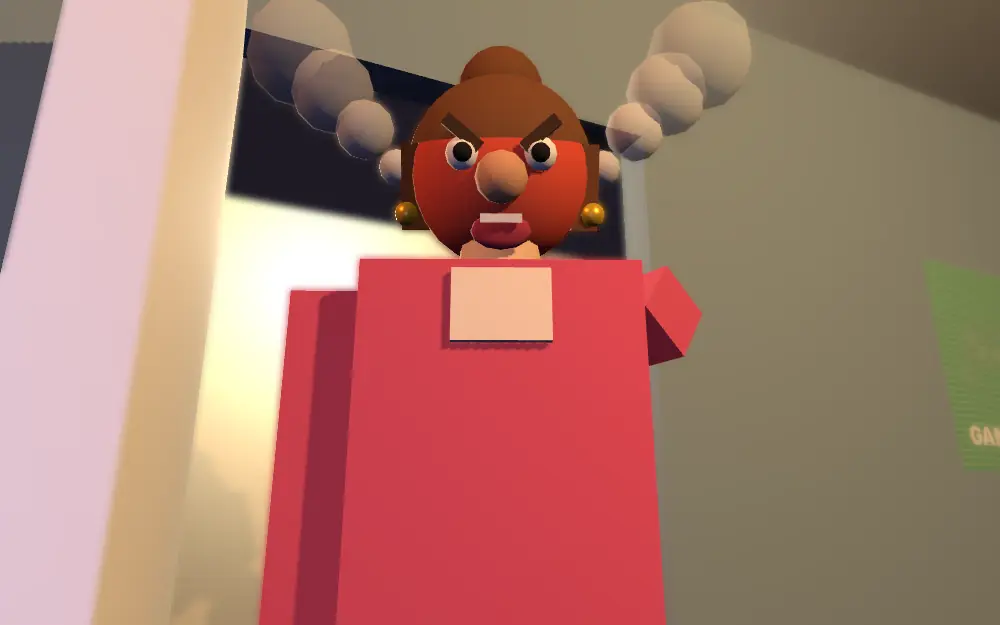
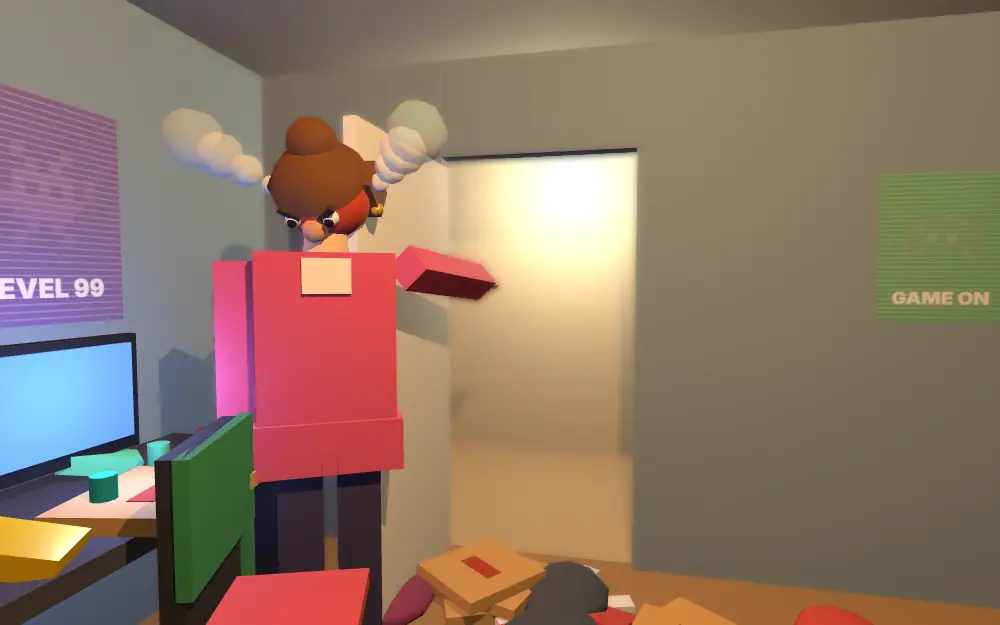
Introt: talfart 1,15, 300 ms luft, armen upp på 'soptipp', längre repliker i ruta 10–12 (inkorg 12b)
- talFart() ger 1,15 medan introt pågår (spelet står kvar på 1,3)
- 300 ms före och efter varje replik
- ruta 7: v4kort7a (armarna ute) först, v4kort7 (armen mot dörren) tonar in på ordet soptipp; mamma flyttad så dörrbladet inte skär henne
- ruta 10–12: de längre raderna tillbaka
- test-a078c: 54–61 s (varm), armen visas

Claude-Session: https://claude.ai/code/session_014156cp9JxbGsW1A8ZsF5gD

diff --git a/spel/printa-hem/spel.js b/spel/printa-hem/spel.js
@@ -913,9 +913,10 @@ function satEffekter(pa) { S.effekter = pa; for (const b of effektBussar) b.gain
 function volym(k) { const v = S.vol?.[k]; return v == null ? 1 : Math.max(0, Math.min(1, v)); }
 const rostVol = (vem) => volym(vem === 'berattare' ? 'berattare' : 'rost');
 /* A-078 tillägg 15:40: talhastighet för all uppläsning – standard 1,3. ?talfart=1.0 i adressen för att prova. */
-const TAL_FARTER = [['lugn', 'Lugn', 1.0], ['normal', 'Normal', 1.15], ['snabb', 'Snabb', 1.3]], TAL_FART_STANDARD = 1.3, TAL_FART_NYCKEL = 'printa-hem:talfart';
+const TAL_FARTER = [['lugn', 'Lugn', 1.0], ['normal', 'Normal', 1.15], ['snabb', 'Snabb', 1.3]], TAL_FART_STANDARD = 1.3, TAL_FART_NYCKEL = 'printa-hem:talfart', TAL_FART_INTRO = 1.15, INTRO_LUFT = 300;
 function talFart() {
   try { const q = +new URLSearchParams(location.search).get('talfart'); if (q > 0) return Math.min(2, q); } catch {}
+  try { if (introPagar) return TAL_FART_INTRO; } catch {}   /* inkorg 12b: introt läses lugnare än spelet */
   try { const v = +localStorage.getItem(TAL_FART_NYCKEL); if (v > 0) return Math.min(2, v); } catch {}
   return TAL_FART_STANDARD;
 }
@@ -12491,7 +12492,7 @@ function visaIntroV2(klar) {
    intro (Enter hoppar över) → startmenyn → dagboken sida 1 (Börja) → spelet. Varje ruta har en fast längd,
    0,5 s tystnad innan texten, 0,3 s mellan raderna, och ingen ruta byts medan någon pratar.
    Mammas repliker är bubblor BREDVID huvudet (pilen mot henne) – huvudets plats kommer ur renderingen (BUB3). */
-const BUB3 = { v4dag2: [60.6, 36.5], v4dag3: [50, 33], v4dag4: [50, 40.9], v4dag5: [50, 43.5], v4dag6b: [50, 24.8], v4kort7: [50, 28.9], };   // huvudet i % av bilden (verktyg/ai3.mjs PTS)
+const BUB3 = { v4dag2: [60.6, 36.5], v4dag3: [50, 33], v4dag4: [50, 40.9], v4dag5: [50, 43.5], v4dag6b: [50, 24.8], v4kort7: [32.5, 30.8], v4kort7a: [32.5, 30.8], };   // huvudet i % av bilden (verktyg/ai3.mjs PTS)
 const IB3 = (namn, extra = {}) => ({ id: extra.id || namn, src: `intro/${namn}.webp`, ...extra });
 const KAL3 = (dag, fore) => ({ id: 'kal', kal: dag, fore, cls: 'vanster' });
 const IDE3 = {   /* ruta 12: idéskissen i vita konturer, i ordningen skräp → kvarn → filament → skrivare → allt man kan printa */
@@ -12517,12 +12518,12 @@ const INTRO3 = [
   { tid: 1400, ljud: 'riv', lager: [IB3('v4dag4', { id: 'dag' }), KAL3('ONSDAG', 'TISDAG')], tal: [['mamma', 'STÄDA!!', { b: 'v4dag4', cls: 'rop2' }]] },   // lågt från golvet, hon pekar på högarna (arg2)
   { tid: 1400, ljud: 'riv', lager: [IB3('v4dag5', { id: 'dag' }), KAL3('TORSDAG', 'ONSDAG')], tal: [['mamma', 'STÄDA!!!', { b: 'v4dag5', cls: 'rop3' }]] },   // från sidan, armen rakt upp (arg2)
   { tid: 2600, rorelse: true, ljud: 'dorr', lager: [IB3('v4dag6a', { id: 'dag', cls: 'glidin' }), IB3('v4dag6b', { r: 0, cls: 'glidsen' }), KAL3('FREDAG', 'TORSDAG')], tal: [['mamma', 'Det ser ut som en SOPTIPP här inne!', { b: 'v4dag6b', fore: 600 }]] },   // dörren smäller upp, kameran glider in mot henne (rasande)
-  { tid: 3000, tyst: 0, lager: [IB3('v4kort7'), { id: 'vinjett', vinjett: true }], tal: [['mamma', 'Du kan lika gärna BO på en soptipp!', { b: 'v4kort7', cls: 'rop1', vanster: true }]] },   // rakt in i ansiktet, fingret mot kameran (rasande+rök)
+  { tid: 3000, tyst: 0, lager: [IB3('v4kort7a'), IB3('v4kort7', { r: 'pek' }), { id: 'vinjett', vinjett: true }], tal: [['mamma', 'Du kan lika gärna BO på en soptipp!', { b: 'v4kort7', cls: 'rop1', vanster: true, visa: ['pek', 0.62] }]] },   /* inkorg 12b: armen åker upp på ordet soptipp */   // rakt in i ansiktet, fingret mot kameran (rasande+rök)
   { tid: 2200, rorelse: true, ljud: 'gitarr', lager: [IB3('v4kort8a'), IB3('v4kort8', { cls: 'sen1kort' })], tal: [['du', 'Okej.'], ['du', 'Då gör jag väl det.']] },   // du reser dig vid datorn, mamma pekar ut genom dörren
   { tid: 2300, rorelse: true, lager: [IB3('v4kort9a', { cls: 'folj' }), IB3('v4kort9b', { cls: 'folj sen1' }), IB3('v4kort9', { cls: 'folj sen2' })], tal: [] },   /* A-078 tillägg 11:50: du går förbi henne i bild – framför henne, förbi, och hon vänder sig */   // A-078 ruta 9: ut förbi mamma, kameran följer med dig ut (mamma förvånad)
-  { tid: 2600, rorelse: true, ljud: 'band', lager: [IB3('v5pack10a'), IB3('v5pack10b', { cls: 'sen1kort' }), IB3('v5pack10c', { cls: 'sen2kort' })], tal: [['du', 'Ryggan på.'], ['du', 'Brorsans gamla 3D-skrivare på pakethållaren.']] },   /* A-078 facit ruta 10: garaget, från sidan, tre steg */
-  { tid: 3000, rorelse: true, musik: true, lager: [{ id: 'vagloop', loop: 'intro/vag.webp' }, { id: 'cyklist', sprite: 'intro/cyklist-tramp.webp', n: 4 }], tal: [['berattare', 'Förbi skolan, förbi affären, förbi där husen tar slut.']] },
-  { tid: 3500, ljud: 'masar', lager: [{ id: 'spelgard', spel: 'gard' }], tal: [['berattare', 'Ett gammalt skjul vid soptippen.'], ['berattare', 'Och en gård full av skräp.']] },
+  { tid: 2600, rorelse: true, ljud: 'band', lager: [IB3('v5pack10a'), IB3('v5pack10b', { cls: 'sen1kort' }), IB3('v5pack10c', { cls: 'sen2kort' })], tal: [['du', 'Jag packar ryggan med sånt som kan vara bra att ha.'], ['du', 'Och surrar fast brorsans gamla 3D-skrivare på cykeln.']] },   /* inkorg 12b: de längre raderna tillbaka */   /* A-078 facit ruta 10: garaget, från sidan, tre steg */
+  { tid: 3000, rorelse: true, musik: true, lager: [{ id: 'vagloop', loop: 'intro/vag.webp' }, { id: 'cyklist', sprite: 'intro/cyklist-tramp.webp', n: 4 }], tal: [['berattare', 'Förbi skolan.'], ['berattare', 'Förbi affären.'], ['berattare', 'Förbi där husen tar slut.']] },
+  { tid: 3500, ljud: 'masar', lager: [{ id: 'spelgard', spel: 'gard' }], tal: [['berattare', 'Vid soptippen står ett gammalt skjul.'], ['berattare', 'Och en gård full av skräp.']] },
   { tid: 3000, rorelse: true, lager: [{ id: 'tavla', tavla: true }], tal: [['berattare', 'Skräp är plast.', { rita: [['skrap', 0]] }], ['berattare', 'En kvarn gör det till filament.', { rita: [['pil1', 0], ['kvarn', 200], ['fraga', 700], ['pil2', 1200], ['filament', 1300]] }], ['berattare', 'Och med filament kan man printa… allt.', { rita: [['pil3', 0], ['skrivare', 200]] }], ['du', 'Jag behöver bara komma på hur.']] },
   { tid: 6000, lager: [{ id: 'n1', spel: 'dorrhal' }, { id: 'natt', natt: true, r: 1 }, { id: 'n2', spel: 'dorrhalRatta', r: 2 }, { id: 'm2', spel: 'mammaRitning', r: 2, cls: 'poff' }, { id: 'n3', spel: 'start', r: 3, cls: 'zoomut' }, { id: 'k3', krita: 'skjul3', r: 3 }],
     tal: [['berattare', 'Inget tak.'], ['berattare', 'Ingen dörr.'], ['berattare', 'Ingen mamma som tjatar.', { pip: true }], ['berattare', 'Tänk om det här kunde bli ett riktigt hem?', { fore: 600 }]], slut: true, rorelse: true },
@@ -12605,9 +12606,9 @@ function visaIntro3(klar, o = {}) {
   const logg = (h, x = '') => { (window.__introLogg ||= []).push({ kort: i + 1, h, x, t: Math.round(performance.now()) }); };
   const timers = new Set(), vanta = (ms, k) => new Promise((ok, nej) => { const t = setTimeout(() => { timers.delete(t); k === kor ? ok() : nej('avbrutet'); }, ms); timers.add(t); });
   /* A-078 tillägg 12:25: varje replik läses (lasIgen), slutet kommer från rösten, reservtimern bara om rösten aldrig säger klar. Tabell per replik i window.__introRepliker. */
-  const sag = (vem, text, k) => new Promise((ok, nej) => { let klar = false; const rad = { ruta: i + 1, vem, text, kalla: klippKalla(vem, text) ? 'ElevenLabs' : rostLage() === 'av' ? 'tyst' : rostLage() === 'prat' ? 'pratljud' : 'talsyntes', start: null, slut: null, t0: Math.round(performance.now()) }; (window.__introRepliker ||= []).push(rad);
+  const sag = (vem, text, k, vidStart) => new Promise((ok, nej) => { let klar = false; const rad = { ruta: i + 1, vem, text, kalla: klippKalla(vem, text) ? 'ElevenLabs' : rostLage() === 'av' ? 'tyst' : rostLage() === 'prat' ? 'pratljud' : 'talsyntes', start: null, slut: null, t0: Math.round(performance.now()) }; (window.__introRepliker ||= []).push(rad);
     const slut = (varfor) => { if (klar) return; klar = true; rad.slut = Math.round(performance.now()); rad.reserv = varfor === 'reserv'; k === kor ? ok() : nej('avbrutet'); };
-    prata(vem, text, 'STORY', { direkt: true, lasIgen: true, start: () => { rad.start = Math.round(performance.now()); logg('röstStart', text); }, slut: () => { logg('röstSlut', text); slut('röst'); } }); const t = setTimeout(() => slut('reserv'), 3000 + text.length * 150); timers.add(t); });
+    prata(vem, text, 'STORY', { direkt: true, lasIgen: true, start: () => { rad.start = Math.round(performance.now()); logg('röstStart', text); vidStart?.(); }, slut: () => { logg('röstSlut', text); slut('röst'); } }); const t = setTimeout(() => slut('reserv'), 3000 + text.length * 150); timers.add(t); });
   const avbryt = () => { kor++; timers.forEach(clearTimeout); timers.clear(); try { tystna(); } catch {} pratKo.length = 0; };
   const bubbla = (p, text, o) => {
     const h = BUB3[o.b] || [50, 30], hoger = h[0] < 58, b = document.createElement('div');
@@ -12639,7 +12640,7 @@ function visaIntro3(klar, o = {}) {
     textEl.innerHTML = ''; textEl.classList.add('tom');
     if (p.ljud) introLjud3(p.ljud); if (p.musik) introMusik.start();
     const t0 = performance.now();
-    await vanta(150, k);   /* A-078 tillägg 12:25: tätare – högst ca 75 s */
+    await vanta(INTRO_LUFT, k);   /* inkorg 12b: 300 ms luft före repliken */
     if (introRitarVarld) { await new Promise((ok) => requestAnimationFrame(() => requestAnimationFrame(ok))); for (const l of p.lager) if (l.spel) spelBild(l.spel); introRitarVarld = 'klar'; }   /* alla bilder ur världen görs medan världen ritas – sedan vilar den */
     let sistaR = null;
     for (let j = 0; j < p.tal.length; j++) {
@@ -12659,7 +12660,9 @@ function visaIntro3(klar, o = {}) {
         textEl.classList.toggle('tom', !textEl.textContent.trim());
       }
       logg('rad', j);
-      await sag(vem, text, k); await vanta(p.tal[j + 1]?.[0] === vem ? 100 : 150, k);   /* A-078 tillägg 15:35: 150 ms luft, 100 ms mellan repliker som hör ihop */
+      let visaFn = null;
+      if (o.visa) { const [vid, andel] = o.visa, l = p.lager.find((x) => x.r === vid); let gjort = false; visaFn = () => { if (gjort || !l) return; gjort = true; const ms = Math.max(200, rens(text).length * 62 / talFart() * andel); const t = setTimeout(() => { timers.delete(t); visaLager(l); logg('visa', vid); }, ms); timers.add(t); }; const t2 = setTimeout(() => visaFn(), 900); timers.add(t2); }   /* inkorg 12b: ett lager på ett visst ord – räknat från röstens start (reserv om rösten aldrig startar) */
+      await sag(vem, text, k, () => visaFn?.()); await vanta(INTRO_LUFT, k);   /* inkorg 12b: 300 ms luft efter varje replik */
     }
     await vanta(p.rorelse ? Math.max(150, p.tid - (performance.now() - t0)) : 0, k);   /* rutans tid gäller bara när en rörelse behöver den – annars byts bilden 0,3 s efter rösten */
   };
@@ -14956,7 +14959,8 @@ const VYER4 = {
   v4dag5: {"kam":[[0.95,1.35,0.25],[2.15,1.65,-0.45]],"fov":64,"stok":0.85,"du":{"x":1.0,"z":-0.95,"rot":3.491592653589793,"sitt":true,"lookAt":[2.3,1.5,-0.4],"humor":"likgiltig"},"mamma":{"x":2.15,"z":-0.45,"motKamera":[1.0,0,-0.95],"humor":"arg2","armarUpp":true,"lookAt":[1.0,1.15,-0.95]},"fokus":1.4},   // 5-torsdag
   v4dag6a: {"kam":[[0.0,1.55,1.3],[2.2,1.4,-0.4]],"fov":56,"stok":1,"du":{"x":1.0,"z":-0.95,"rot":3.491592653589793,"sitt":true,"lookAt":[2.3,1.5,-0.4],"humor":"likgiltig"},"mamma":{"x":2.2,"z":-0.4,"motKamera":[1.0,0,-0.95],"humor":"rasande","pekaMot":[1.0,1.15,-0.95],"lookAt":[1.0,1.15,-0.95]},"fokus":2.6},   // 6a-fredag
   v4dag6b: {"kam":[[1.15,1.15,-0.9],[2.2,1.48,-0.4]],"fov":56,"stok":1,"mamma":{"x":2.2,"z":-0.4,"motKamera":[1.0,0,-0.95],"humor":"rasande","pekaMot":[1.5,0.0,-0.2],"lookAt":[1.0,1.15,-0.95]},"fokus":1.3},   // 6b-fredag-nara · A-078 13:40: hon pekar på högarna, aldrig in i kameran · A-078 tillägg 11:50: din vy från datorn, hon pekar på dig
-  v4kort7: {"kam":[[1.2,1.15,-0.88],[2.25,1.5,-0.4]],"fov":50,"stok":1,"lampa":9,"mamma":{"x":2.25,"z":-0.4,"motKamera":[1.0,0,-0.95],"humor":"rasande+rok","pekaMot":[3.9,1.4,-0.6],"lookAt":[1.0,1.15,-0.95]},"fokus":1.1,"nara":true},   // 7-argast · A-078 tillägg 13:40: din vy från datorn, hon pekar UT genom dörren med höger arm
+  v4kort7a: {"kam":[[-0.4,1.45,0.05],[2.3,1.3,-0.55]],"fov":58,"stok":1,"lampa":9,"mamma":{"x":1.45,"z":-1.0,"motKamera":[-0.4,0,0.05],"humor":"rasande+rok","handerISidan":true,"lookAt":[1.0,1.15,-0.95]},"fokus":1.7},   /* inkorg 12b: samma bild innan ordet – armen nere */
+  v4kort7: {"kam":[[-0.4,1.45,0.05],[2.3,1.3,-0.55]],"fov":58,"stok":1,"lampa":9,"mamma":{"x":1.45,"z":-1.0,"motKamera":[-0.4,0,0.05],"humor":"rasande+rok","pekaMot":[2.7,1.4,-0.5],"lookAt":[1.0,1.15,-0.95]},"fokus":1.7},   /* inkorg 12b: kameran längre bak – mamma, armen och dörröppningen syns. Hon pekar UT, aldrig in i kameran */   // 7-argast · A-078 tillägg 13:40: din vy från datorn, hon pekar UT genom dörren med höger arm
   v4kort8a: {"kam":[[-0.9,1.25,-0.55],[1.6,1.05,-0.6]],"fov":58,"stok":1,"du":{"x":1.0,"z":-0.95,"rot":3.491592653589793,"sitt":true,"lookAt":[2.05,1.55,0.45],"humor":"likgiltig"},"mamma":{"x":2.05,"z":0.45,"motKamera":[0.4,0,-0.9],"humor":"rasande","pekaMot":[3.9,1.4,-0.45],"lookAt":[1.0,1.15,-0.95]},"fokus":2.6},   // A-078 tillägg 13:40: du sitter kvar, hon pekar ut genom dörren
   v4kort8: {"kam":[[-0.9,1.25,-0.55],[1.6,1.05,-0.6]],"fov":58,"stok":1,"du":{"x":1.0,"z":-0.95,"motKamera":[2.05,0,0.45],"lookAt":[2.05,1.55,0.45],"humor":"likgiltig"},"mamma":{"x":2.05,"z":0.45,"motKamera":[0.4,0,-0.9],"humor":"rasande","pekaMot":[3.9,1.4,-0.45],"lookAt":[1.0,1.45,-0.95]},"fokus":2.6,"stol":[1.75,-1.5,-0.6]},   // 8-reser-sig · höger arm ut genom dörren
   v4kort9a: {"kam":[[4.5,1.55,-0.95],[2.5,1.4,-0.35]],"fov":58,"stok":1,"du":{"x":1.95,"z":-0.55,"motKamera":[3.5,0,-1.2],"steg":true,"humor":"likgiltig"},"mamma":{"x":2.45,"z":0.0,"motKamera":[1.95,0,-0.55],"humor":"rasande","lookAt":[1.95,1.5,-0.55]},"fokus":2.2},   // A-078 tillägg 11:50: du på väg ut, mamma framför dig

diff --git a/verktyg/a078/introtabell.md b/verktyg/a078/introtabell.md
@@ -1,58 +1,62 @@
 # Introtabellen (A-078 tillägg 12:25)
 
-## Första gången · 54.3 s · 23 repliker · 0 tysta · 0 på reservtimern
+## Första gången · 65.7 s · 25 repliker · 0 tysta · 0 på reservtimern
 
 | Ruta | Vem | Replik | Källa | Start | Längd | Väntan före |
 |---|---|---|---|---|---|---|
-| 1 | berattare | Ditt rum. | talsyntes | 0 s | 1.2 s | 0.0 s |
-| 1 | berattare | Ungefär som vanligt. | talsyntes | 1.3 s | 1.2 s | 0.1 s |
-| 2 | mamma | Snälla du, kan du inte städa ditt rum? | talsyntes | 2.81 s | 1.8 s | 0.3 s |
-| 3 | mamma | STÄDA! | talsyntes | 4.873 s | 1.2 s | 0.3 s |
-| 4 | mamma | STÄDA!! | talsyntes | 6.38 s | 1.2 s | 0.3 s |
-| 5 | mamma | STÄDA!!! | talsyntes | 7.889 s | 1.2 s | 0.3 s |
-| 6 | mamma | Det ser ut som en SOPTIPP här inne! | talsyntes | 10 s | 1.6 s | 0.9 s |
-| 7 | mamma | Du kan lika gärna BO på en soptipp! | talsyntes | 12.074 s | 1.6 s | 0.5 s |
-| 8 | du | Okej. | talsyntes | 14.003 s | 1.2 s | 0.3 s |
-| 8 | du | Då gör jag väl det. | talsyntes | 15.305 s | 1.2 s | 0.1 s |
-| 10 | du | Ryggan på. | talsyntes | 19.28 s | 1.2 s | 2.8 s |
-| 10 | du | Brorsans gamla 3D-skrivare på pakethållaren. | talsyntes | 20.579 s | 2.0 s | 0.1 s |
-| 11 | berattare | Förbi skolan, förbi affären, förbi där husen tar slut. | talsyntes | 22.925 s | 2.5 s | 0.3 s |
-| 12 | berattare | Ett gammalt skjul vid soptippen. | talsyntes | 30.65 s | 1.5 s | 5.2 s |
-| 12 | berattare | Och en gård full av skräp. | talsyntes | 32.227 s | 1.2 s | 0.1 s |
-| 13 | berattare | Skräp är plast. | talsyntes | 33.728 s | 1.2 s | 0.3 s |
-| 13 | berattare | En kvarn gör det till filament. | talsyntes | 35.028 s | 1.4 s | 0.1 s |
-| 13 | berattare | Och med filament kan man printa… allt. | talsyntes | 36.559 s | 1.8 s | 0.1 s |
-| 13 | du | Jag behöver bara komma på hur. | talsyntes | 38.462 s | 1.4 s | 0.1 s |
-| 14 | berattare | Inget tak. | talsyntes | 47.447 s | 1.2 s | 7.6 s |
-| 14 | berattare | Ingen dörr. | talsyntes | 48.747 s | 1.2 s | 0.1 s |
-| 14 | berattare | Ingen mamma som tjatar. | talsyntes | 50.048 s | 1.2 s | 0.1 s |
-| 14 | berattare | Tänk om det här kunde bli ett riktigt hem? | talsyntes | 51.951 s | 1.9 s | 0.7 s |
+| 1 | berattare | Ditt rum. | talsyntes | 0.01 s | 1.2 s | 0.0 s |
+| 1 | berattare | Ungefär som vanligt. | talsyntes | 1.509 s | 1.2 s | 0.3 s |
+| 2 | mamma | Snälla du, kan du inte städa ditt rum? | talsyntes | 3.323 s | 2.0 s | 0.6 s |
+| 3 | mamma | STÄDA! | talsyntes | 5.917 s | 1.2 s | 0.6 s |
+| 4 | mamma | STÄDA!! | talsyntes | 7.728 s | 1.2 s | 0.6 s |
+| 5 | mamma | STÄDA!!! | talsyntes | 9.549 s | 1.2 s | 0.6 s |
+| 6 | mamma | Det ser ut som en SOPTIPP här inne! | talsyntes | 12.046 s | 1.8 s | 1.3 s |
+| 7 | mamma | Du kan lika gärna BO på en soptipp! | talsyntes | 14.63 s | 1.8 s | 0.8 s |
+| 8 | du | Okej. | talsyntes | 17.074 s | 1.2 s | 0.6 s |
+| 8 | du | Då gör jag väl det. | talsyntes | 18.574 s | 1.2 s | 0.3 s |
+| 10 | du | Jag packar ryggan med sånt som kan vara bra att ha. | talsyntes | 22.857 s | 2.7 s | 3.1 s |
+| 10 | du | Och surrar fast brorsans gamla 3D-skrivare på cykeln. | talsyntes | 25.818 s | 2.8 s | 0.3 s |
+| 11 | berattare | Förbi skolan. | talsyntes | 29.344 s | 1.2 s | 0.8 s |
+| 11 | berattare | Förbi affären. | talsyntes | 30.844 s | 1.2 s | 0.3 s |
+| 11 | berattare | Förbi där husen tar slut. | talsyntes | 32.343 s | 1.3 s | 0.3 s |
+| 12 | berattare | Vid soptippen står ett gammalt skjul. | talsyntes | 38.816 s | 1.9 s | 5.2 s |
+| 12 | berattare | Och en gård full av skräp. | talsyntes | 41.046 s | 1.4 s | 0.3 s |
+| 13 | berattare | Skräp är plast. | talsyntes | 43.003 s | 1.2 s | 0.6 s |
+| 13 | berattare | En kvarn gör det till filament. | talsyntes | 44.503 s | 1.6 s | 0.3 s |
+| 13 | berattare | Och med filament kan man printa… allt. | talsyntes | 46.426 s | 2.0 s | 0.3 s |
+| 13 | du | Jag behöver bara komma på hur. | talsyntes | 48.709 s | 1.6 s | 0.3 s |
+| 14 | berattare | Inget tak. | talsyntes | 57.607 s | 1.2 s | 7.3 s |
+| 14 | berattare | Ingen dörr. | talsyntes | 59.107 s | 1.2 s | 0.3 s |
+| 14 | berattare | Ingen mamma som tjatar. | talsyntes | 60.608 s | 1.2 s | 0.3 s |
+| 14 | berattare | Tänk om det här kunde bli ett riktigt hem? | talsyntes | 62.711 s | 2.2 s | 0.9 s |
 
-## Andra gången (samma sparfil) · 46.3 s · 23 repliker · 0 tysta · 0 på reservtimern
+## Andra gången (samma sparfil) · 59.7 s · 25 repliker · 0 tysta · 0 på reservtimern
 
 | Ruta | Vem | Replik | Källa | Start | Längd | Väntan före |
 |---|---|---|---|---|---|---|
-| 1 | berattare | Ditt rum. | talsyntes | 0 s | 1.2 s | 0.0 s |
-| 1 | berattare | Ungefär som vanligt. | talsyntes | 1.3 s | 1.2 s | 0.1 s |
-| 2 | mamma | Snälla du, kan du inte städa ditt rum? | talsyntes | 2.807 s | 1.8 s | 0.3 s |
-| 3 | mamma | STÄDA! | talsyntes | 4.872 s | 1.2 s | 0.3 s |
-| 4 | mamma | STÄDA!! | talsyntes | 6.383 s | 1.2 s | 0.3 s |
-| 5 | mamma | STÄDA!!! | talsyntes | 7.888 s | 1.2 s | 0.3 s |
-| 6 | mamma | Det ser ut som en SOPTIPP här inne! | talsyntes | 9.995 s | 1.6 s | 0.9 s |
-| 7 | mamma | Du kan lika gärna BO på en soptipp! | talsyntes | 12.069 s | 1.6 s | 0.5 s |
-| 8 | du | Okej. | talsyntes | 13.999 s | 1.2 s | 0.3 s |
-| 8 | du | Då gör jag väl det. | talsyntes | 15.298 s | 1.2 s | 0.1 s |
-| 10 | du | Ryggan på. | talsyntes | 19.269 s | 1.2 s | 2.8 s |
-| 10 | du | Brorsans gamla 3D-skrivare på pakethållaren. | talsyntes | 20.569 s | 2.0 s | 0.1 s |
-| 11 | berattare | Förbi skolan, förbi affären, förbi där husen tar slut. | talsyntes | 22.911 s | 2.5 s | 0.3 s |
-| 12 | berattare | Ett gammalt skjul vid soptippen. | talsyntes | 27.78 s | 1.5 s | 2.4 s |
-| 12 | berattare | Och en gård full av skräp. | talsyntes | 29.357 s | 1.2 s | 0.1 s |
-| 13 | berattare | Skräp är plast. | talsyntes | 30.857 s | 1.2 s | 0.3 s |
-| 13 | berattare | En kvarn gör det till filament. | talsyntes | 32.157 s | 1.4 s | 0.1 s |
-| 13 | berattare | Och med filament kan man printa… allt. | talsyntes | 33.688 s | 1.8 s | 0.1 s |
-| 13 | du | Jag behöver bara komma på hur. | talsyntes | 35.592 s | 1.4 s | 0.1 s |
-| 14 | berattare | Inget tak. | talsyntes | 39.371 s | 1.2 s | 2.4 s |
-| 14 | berattare | Ingen dörr. | talsyntes | 40.672 s | 1.2 s | 0.1 s |
-| 14 | berattare | Ingen mamma som tjatar. | talsyntes | 41.973 s | 1.2 s | 0.1 s |
-| 14 | berattare | Tänk om det här kunde bli ett riktigt hem? | talsyntes | 43.876 s | 1.9 s | 0.7 s |
+| 1 | berattare | Ditt rum. | talsyntes | 0.001 s | 1.2 s | 0.0 s |
+| 1 | berattare | Ungefär som vanligt. | talsyntes | 1.5 s | 1.2 s | 0.3 s |
+| 2 | mamma | Snälla du, kan du inte städa ditt rum? | talsyntes | 3.308 s | 2.0 s | 0.6 s |
+| 3 | mamma | STÄDA! | talsyntes | 5.91 s | 1.2 s | 0.6 s |
+| 4 | mamma | STÄDA!! | talsyntes | 7.721 s | 1.2 s | 0.6 s |
+| 5 | mamma | STÄDA!!! | talsyntes | 9.53 s | 1.2 s | 0.6 s |
+| 6 | mamma | Det ser ut som en SOPTIPP här inne! | talsyntes | 11.945 s | 1.8 s | 1.2 s |
+| 7 | mamma | Du kan lika gärna BO på en soptipp! | talsyntes | 14.55 s | 1.8 s | 0.8 s |
+| 8 | du | Okej. | talsyntes | 16.991 s | 1.2 s | 0.6 s |
+| 8 | du | Då gör jag väl det. | talsyntes | 18.491 s | 1.2 s | 0.3 s |
+| 10 | du | Jag packar ryggan med sånt som kan vara bra att ha. | talsyntes | 22.919 s | 2.7 s | 3.2 s |
+| 10 | du | Och surrar fast brorsans gamla 3D-skrivare på cykeln. | talsyntes | 25.88 s | 2.8 s | 0.3 s |
+| 11 | berattare | Förbi skolan. | talsyntes | 29.405 s | 1.2 s | 0.8 s |
+| 11 | berattare | Förbi affären. | talsyntes | 30.905 s | 1.2 s | 0.3 s |
+| 11 | berattare | Förbi där husen tar slut. | talsyntes | 32.404 s | 1.3 s | 0.3 s |
+| 12 | berattare | Vid soptippen står ett gammalt skjul. | talsyntes | 36.218 s | 1.9 s | 2.5 s |
+| 12 | berattare | Och en gård full av skräp. | talsyntes | 38.448 s | 1.4 s | 0.3 s |
+| 13 | berattare | Skräp är plast. | talsyntes | 40.405 s | 1.2 s | 0.6 s |
+| 13 | berattare | En kvarn gör det till filament. | talsyntes | 41.905 s | 1.6 s | 0.3 s |
+| 13 | berattare | Och med filament kan man printa… allt. | talsyntes | 43.824 s | 2.0 s | 0.3 s |
+| 13 | du | Jag behöver bara komma på hur. | talsyntes | 46.107 s | 1.6 s | 0.3 s |
+| 14 | berattare | Inget tak. | talsyntes | 51.672 s | 1.2 s | 4.0 s |
+| 14 | berattare | Ingen dörr. | talsyntes | 53.171 s | 1.2 s | 0.3 s |
+| 14 | berattare | Ingen mamma som tjatar. | talsyntes | 54.672 s | 1.2 s | 0.3 s |
+| 14 | berattare | Tänk om det här kunde bli ett riktigt hem? | talsyntes | 56.774 s | 2.2 s | 0.9 s |
 
